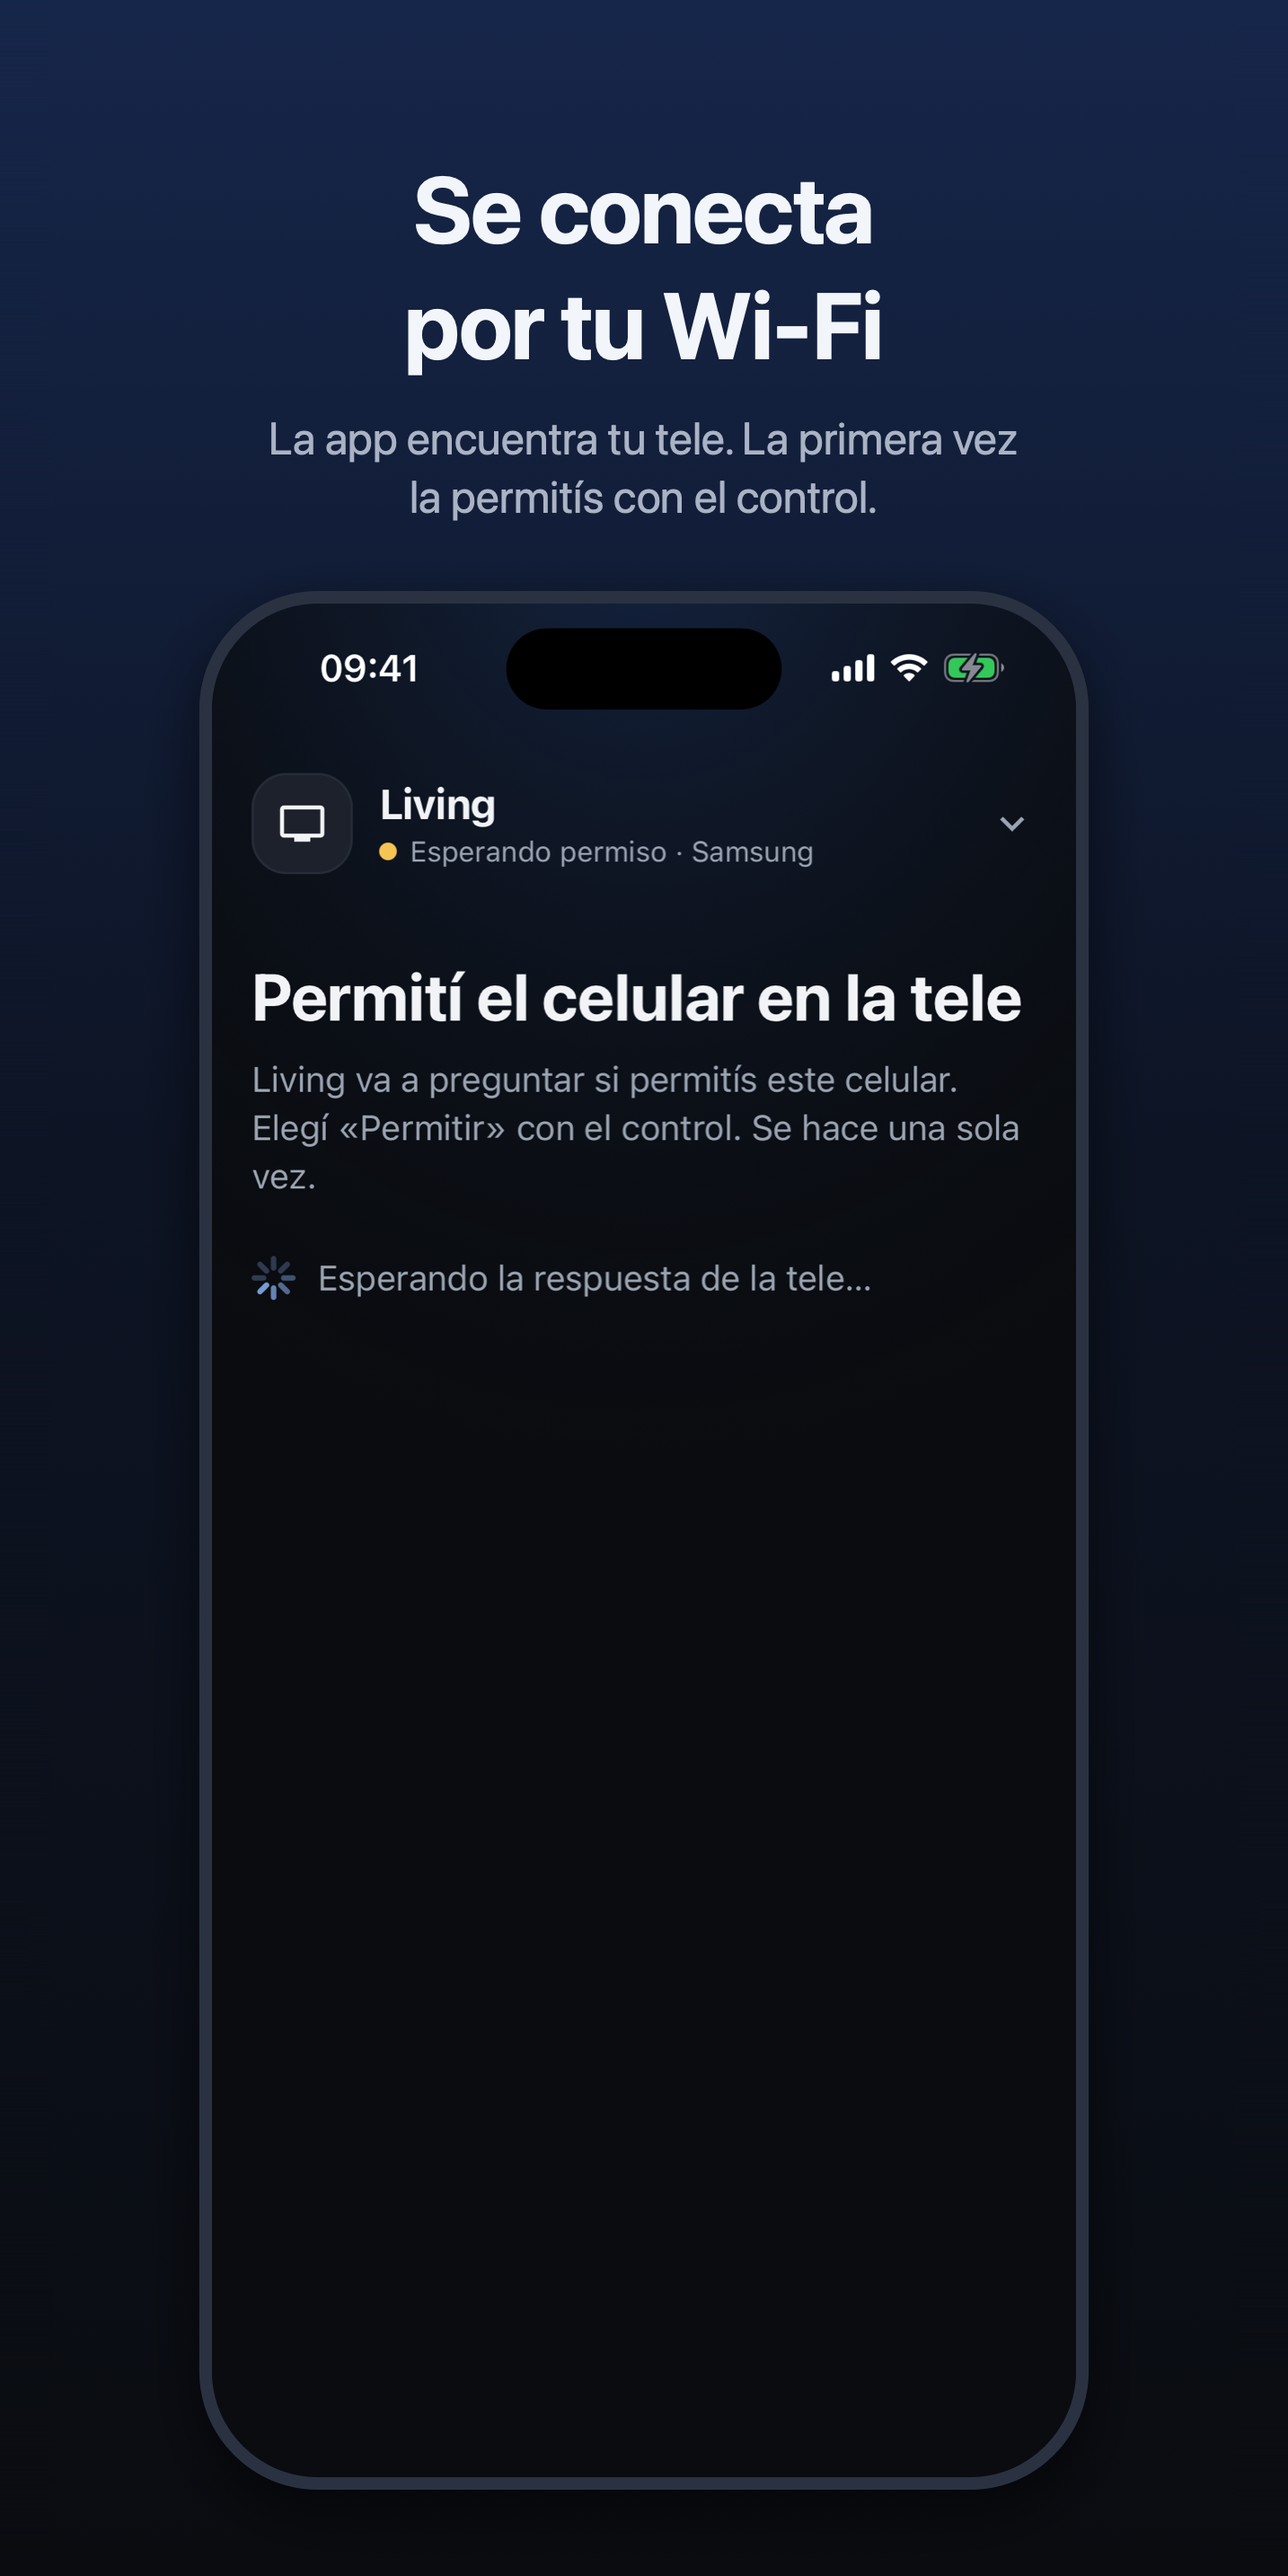
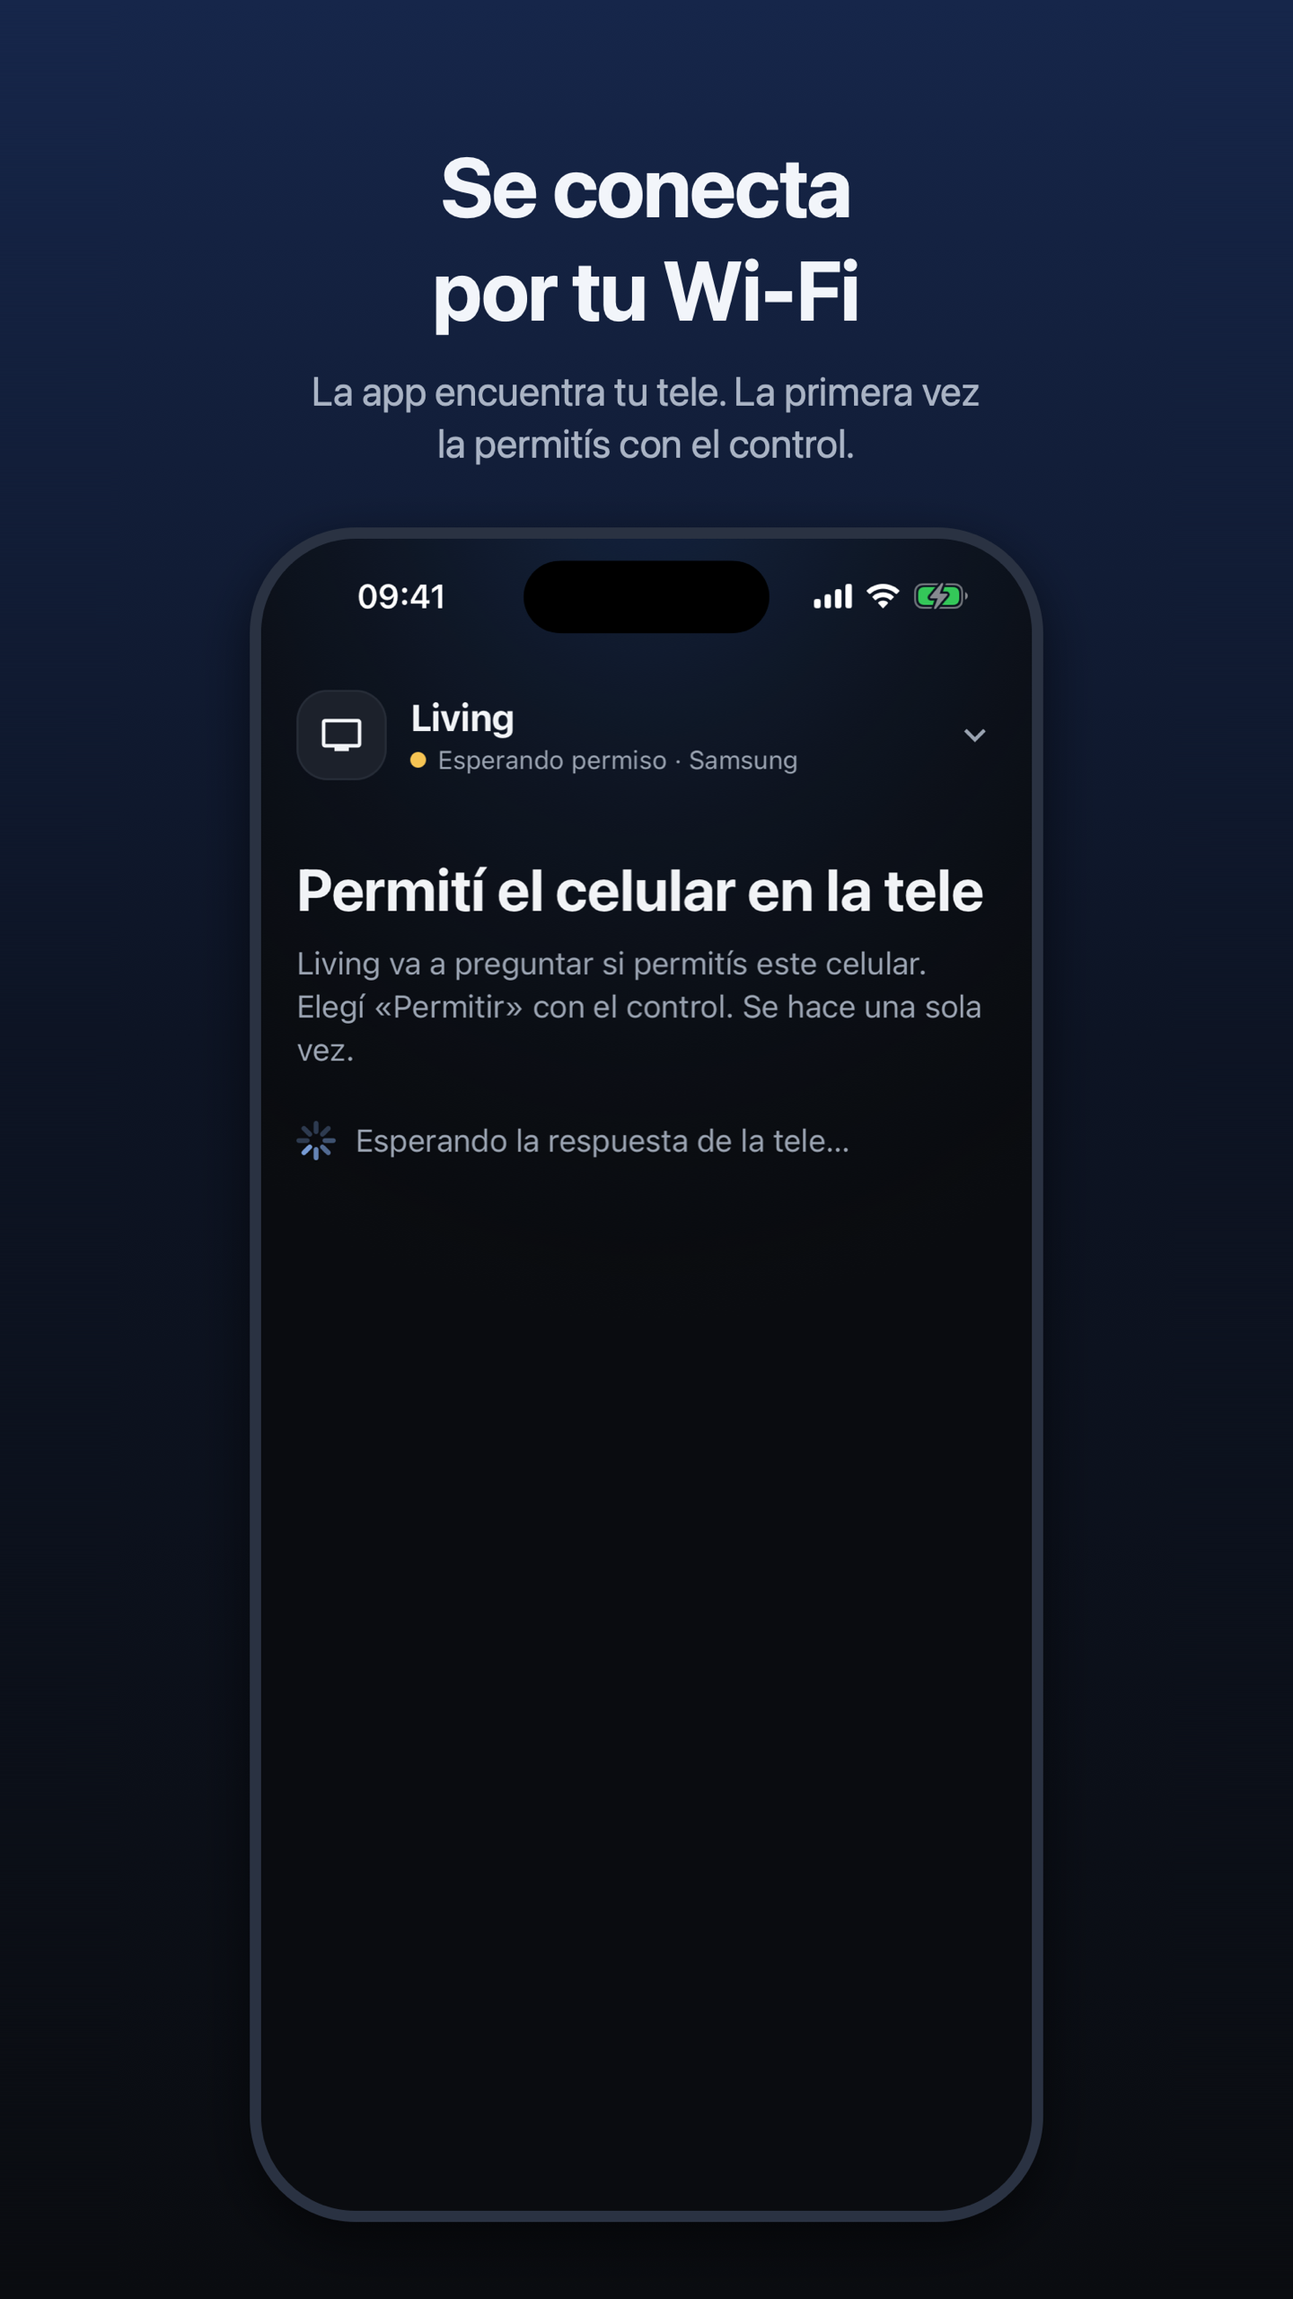
Teclado TV: capturas de Google Play en 9:16 (lo que acepta Play)

diff --git a/store/play/make-assets.swift b/store/play/make-assets.swift
@@ -1,4 +1,4 @@
-// Google Play images from the App Store ones: screenshots padded to 2:1 (Play's maximum ratio) and
+// Google Play images from the App Store ones: screenshots in 9:16 (what Play accepts) and
 // the 1024x500 feature graphic. Run: swift store/play/make-assets.swift  (from the repo root)
 import AppKit
 
@@ -23,18 +23,21 @@ func canvas(_ w: Int, _ h: Int, _ draw: () -> Void) -> NSBitmapImageRep {
   return rep
 }
 
-// Screenshots: 1320x2868 -> 1434x2868 (2:1), stretching each edge column sideways (the background is a
-// vertical gradient, so this is seamless).
+// Screenshots: Play wants exactly 9:16. The 1320x2868 App Store image is scaled to 2560 px high and
+// centred on 1440x2560, stretching its edge columns sideways (the background is a vertical gradient,
+// so this is seamless).
 for name in ["1-escribir", "2-conectar", "3-vincular"] {
   let src = load("store/screenshots/iphone-6.9/\(name).png")
-  let w = src.pixelsWide, h = src.pixelsHigh
-  let pad = (h / 2 - w + 1) / 2
-  let img = NSImage(size: NSSize(width: w, height: h))
+  let W = 1440, H = 2560
+  let w = Int((Double(src.pixelsWide) * Double(H) / Double(src.pixelsHigh)).rounded())
+  let pad = (W - w) / 2
+  let img = NSImage(size: NSSize(width: src.pixelsWide, height: src.pixelsHigh))
   img.addRepresentation(src)
-  let out = canvas(w + 2 * pad, h) {
-    img.draw(in: NSRect(x: 0, y: 0, width: pad, height: h), from: NSRect(x: 0, y: 0, width: 1, height: h), operation: .copy, fraction: 1)
-    img.draw(in: NSRect(x: pad + w, y: 0, width: pad, height: h), from: NSRect(x: w - 1, y: 0, width: 1, height: h), operation: .copy, fraction: 1)
-    img.draw(in: NSRect(x: pad, y: 0, width: w, height: h), from: .zero, operation: .copy, fraction: 1)
+  let sh = CGFloat(src.pixelsHigh)
+  let out = canvas(W, H) {
+    img.draw(in: NSRect(x: 0, y: 0, width: pad + 1, height: H), from: NSRect(x: 0, y: 0, width: 1, height: sh), operation: .copy, fraction: 1)
+    img.draw(in: NSRect(x: pad + w - 1, y: 0, width: W - pad - w + 1, height: H), from: NSRect(x: CGFloat(src.pixelsWide - 1), y: 0, width: 1, height: sh), operation: .copy, fraction: 1)
+    img.draw(in: NSRect(x: pad, y: 0, width: w, height: H), from: .zero, operation: .copy, fraction: 1)
   }
   save(out, "store/play/\(name).png")
 }
